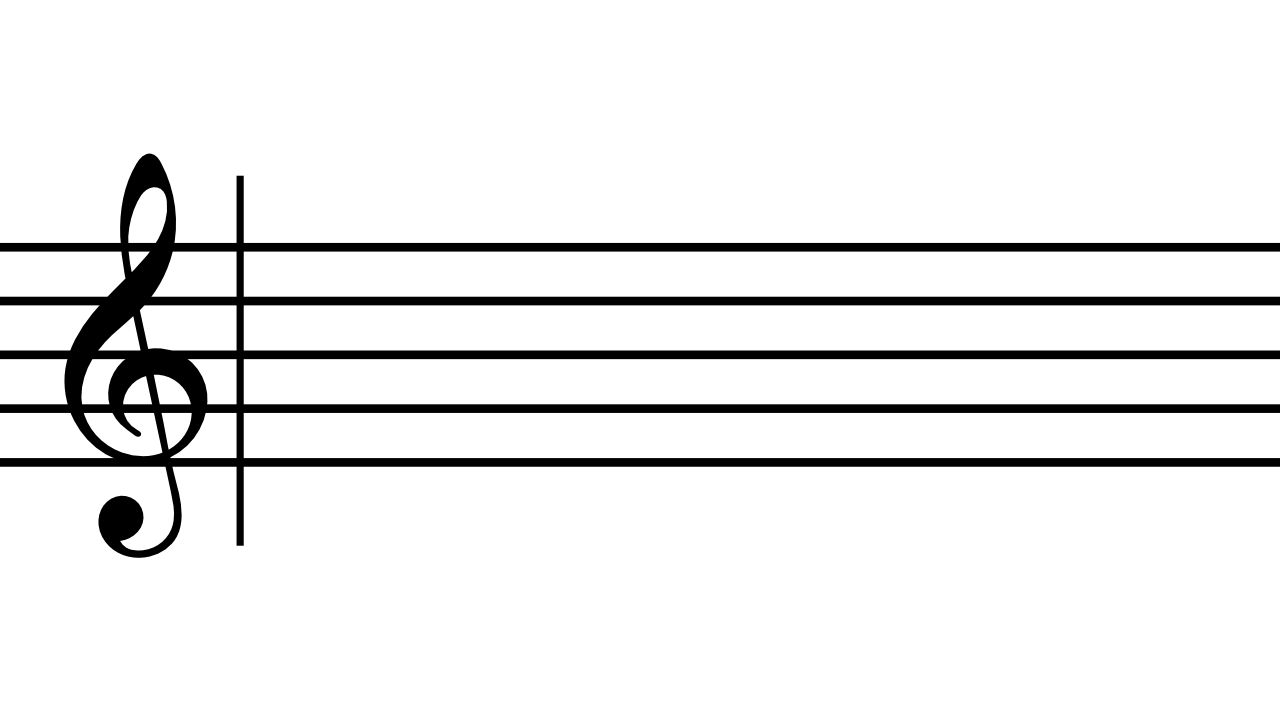
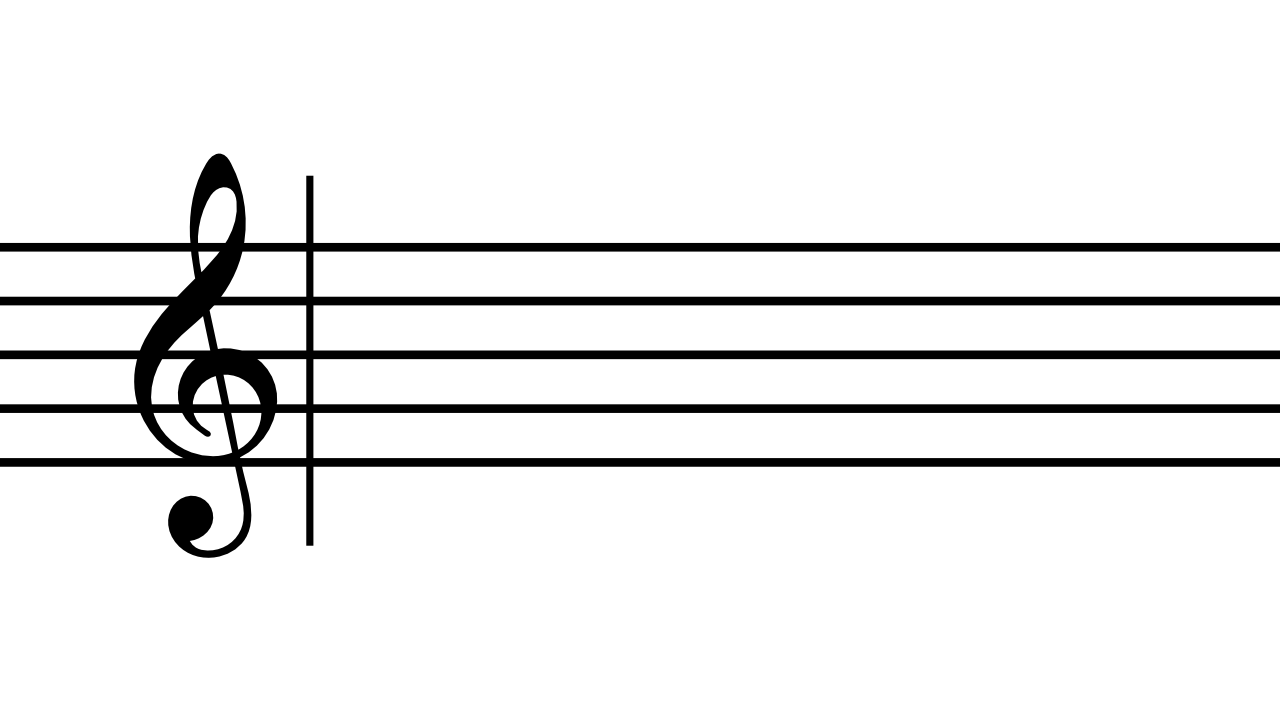
Fullscreen app. Press esc to quit. Graphics now fit on screen.

Changed region(s): [[0.0312, 0.2139, 0.25, 0.7944]]

diff --git a/PianoGame/PianoGame/PianoGame/Game1.cs b/PianoGame/PianoGame/PianoGame/Game1.cs
@@ -31,6 +31,8 @@ namespace PianoGame
 
         SpriteBatch spriteBatch;
 
+        Vector2 textOffset = new Vector2(100, 40);
+
         Texture2D menuTex;
         Texture2D quarterNoteTex;
         Texture2D halfNoteTex;
@@ -64,6 +66,7 @@ namespace PianoGame
             //Set the screen height and width       
             graphics.PreferredBackBufferWidth = 1280;
             graphics.PreferredBackBufferHeight = 720;
+            graphics.IsFullScreen = true;
             
 
             //Apply the changes made to the device
@@ -154,7 +157,7 @@ namespace PianoGame
         protected override void Update(GameTime gameTime)
         {
             // Allows the game to exit
-            if (GamePad.GetState(PlayerIndex.One).Buttons.Back == ButtonState.Pressed)
+            if (GamePad.GetState(PlayerIndex.One).Buttons.Back == ButtonState.Pressed || Keyboard.GetState().IsKeyDown(Keys.Escape))
                 this.Exit();
 
             // TODO: Add your update logic here
@@ -237,7 +240,7 @@ namespace PianoGame
                         string scoreString = staff.songScore.ToString("N0");
 
                         // Score
-                        spriteBatch.DrawString(scoreFont, scoreString, Vector2.Zero, Color.Black,
+                        spriteBatch.DrawString(scoreFont, scoreString, textOffset, Color.Black,
                             0, Vector2.Zero, 1.0f, SpriteEffects.None, 0.5f);
                     }
                     else
@@ -255,7 +258,7 @@ namespace PianoGame
                     string conclusion = "You scored: " + (staff.songScore / staff.songPerfectScore).ToString("P2") + "\n Press any key to try again.";
                     spriteBatch.Begin(SpriteSortMode.BackToFront, BlendState.AlphaBlend);
                     // Score
-                    spriteBatch.DrawString(scoreFont, conclusion, Vector2.Zero, Color.Black,
+                    spriteBatch.DrawString(scoreFont, conclusion, textOffset, Color.Black,
                         0, Vector2.Zero, 1.0f, SpriteEffects.None, 0.5f);
                     spriteBatch.End();
                     break;

diff --git a/PianoGame/PianoGame/PianoGame/Staff.cs b/PianoGame/PianoGame/PianoGame/Staff.cs
@@ -32,7 +32,7 @@ namespace PianoGame
 
         public SongStatus status;
 
-        public float msLeeway = 200.0f; //How far off you can be to get a note
+        public float msLeeway = 150.0f; //How far off you can be to get a note
 
         public float songScore;
         public float songPerfectScore;
@@ -56,7 +56,7 @@ namespace PianoGame
             rightTimeSpan = 30.0f;
 
             speedFactor = 0.2f;
-            pointerLoc = 236.0f;
+            pointerLoc = 306.0f;
         }
 
         public void PlayMusic(Song sng)
